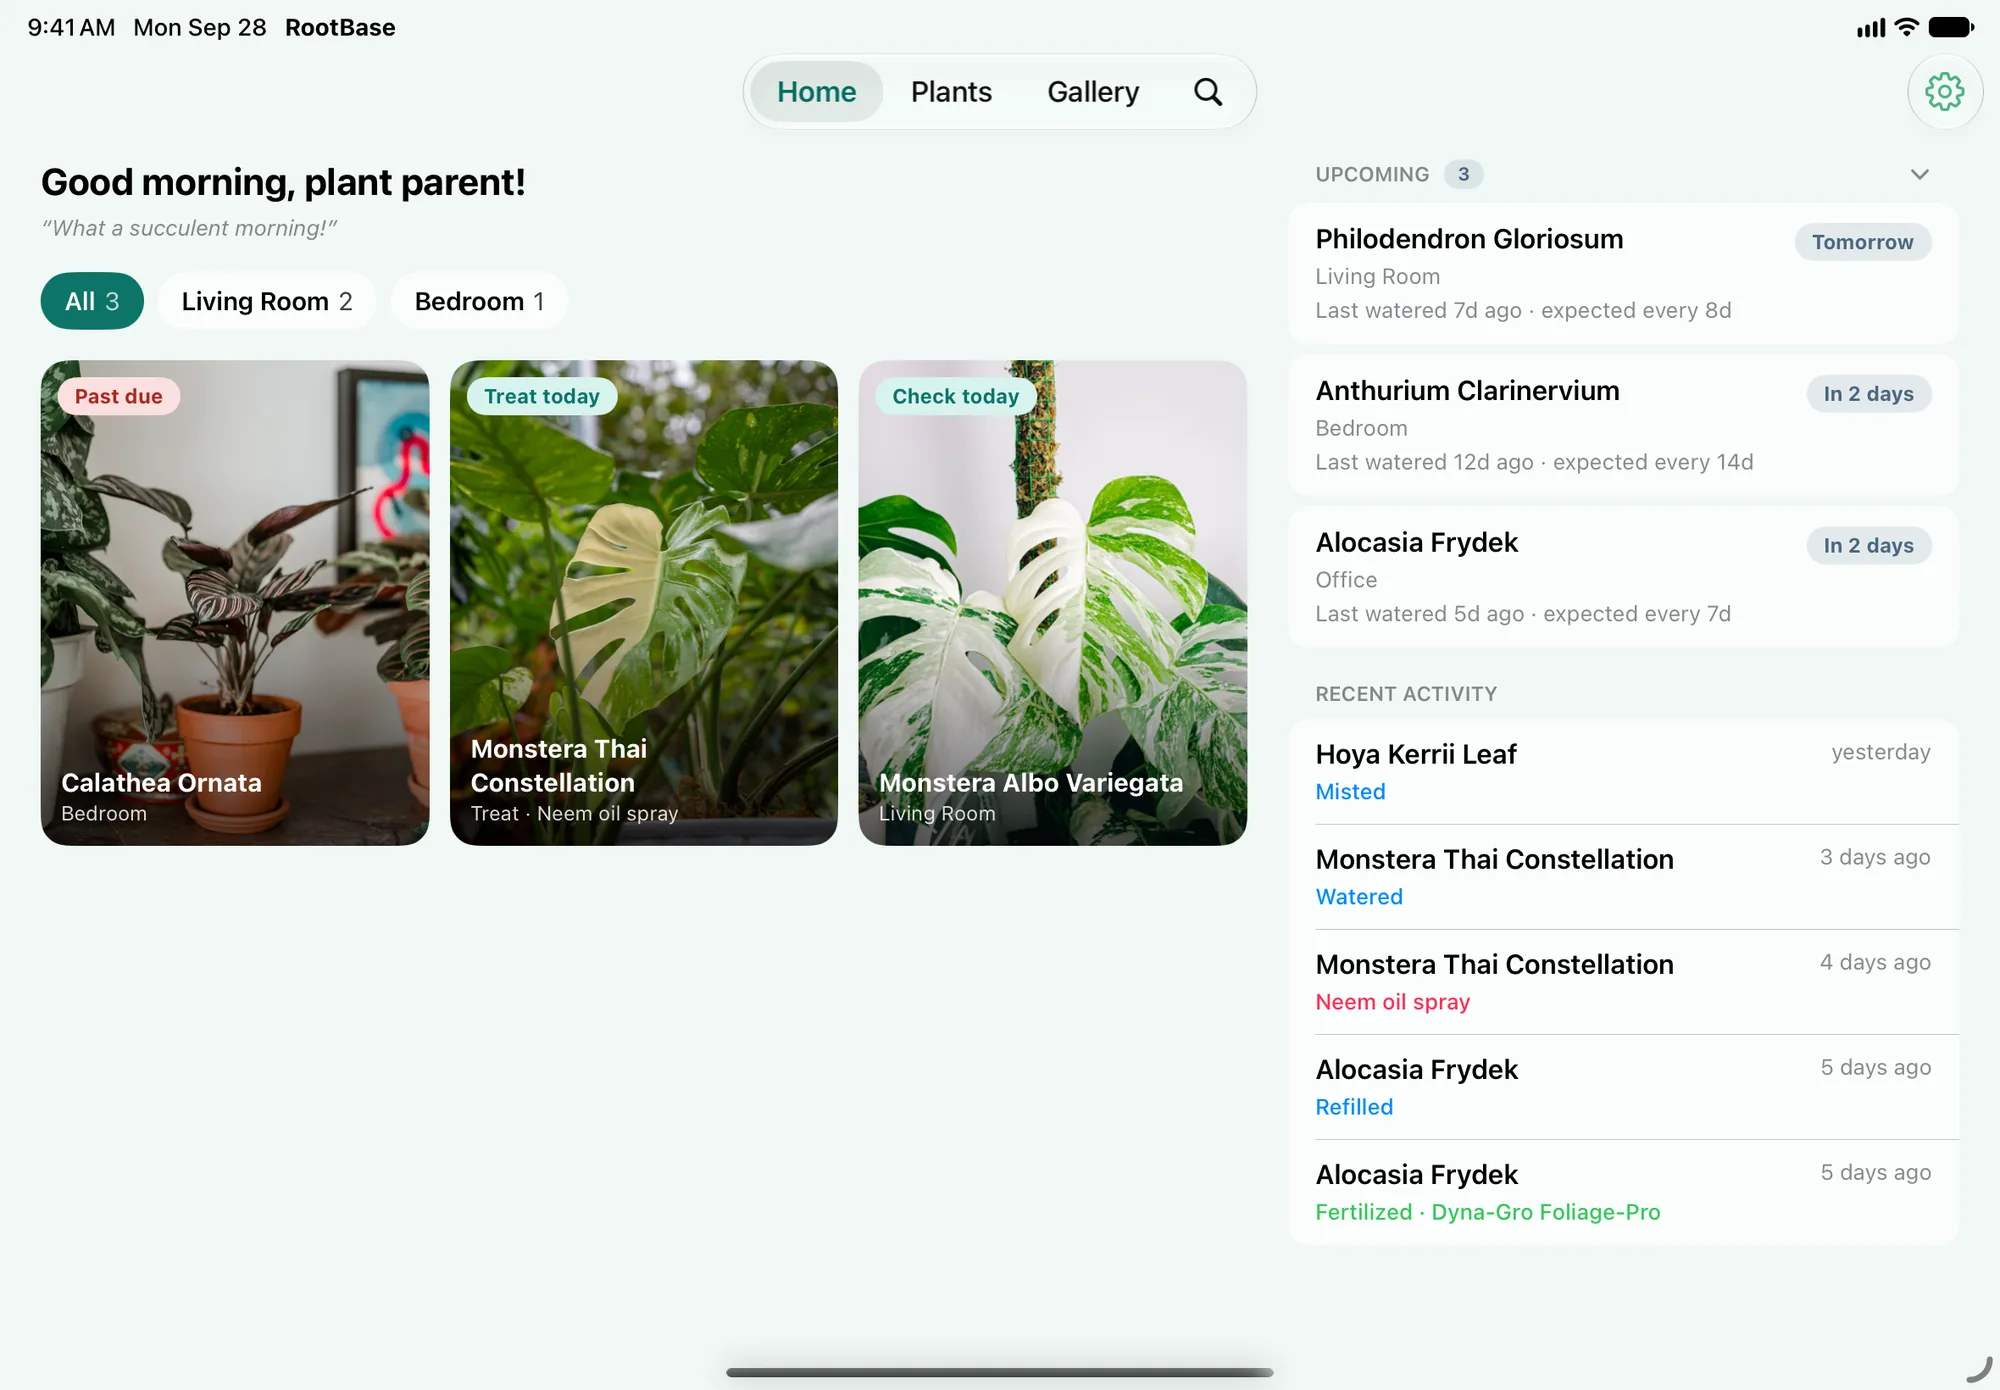
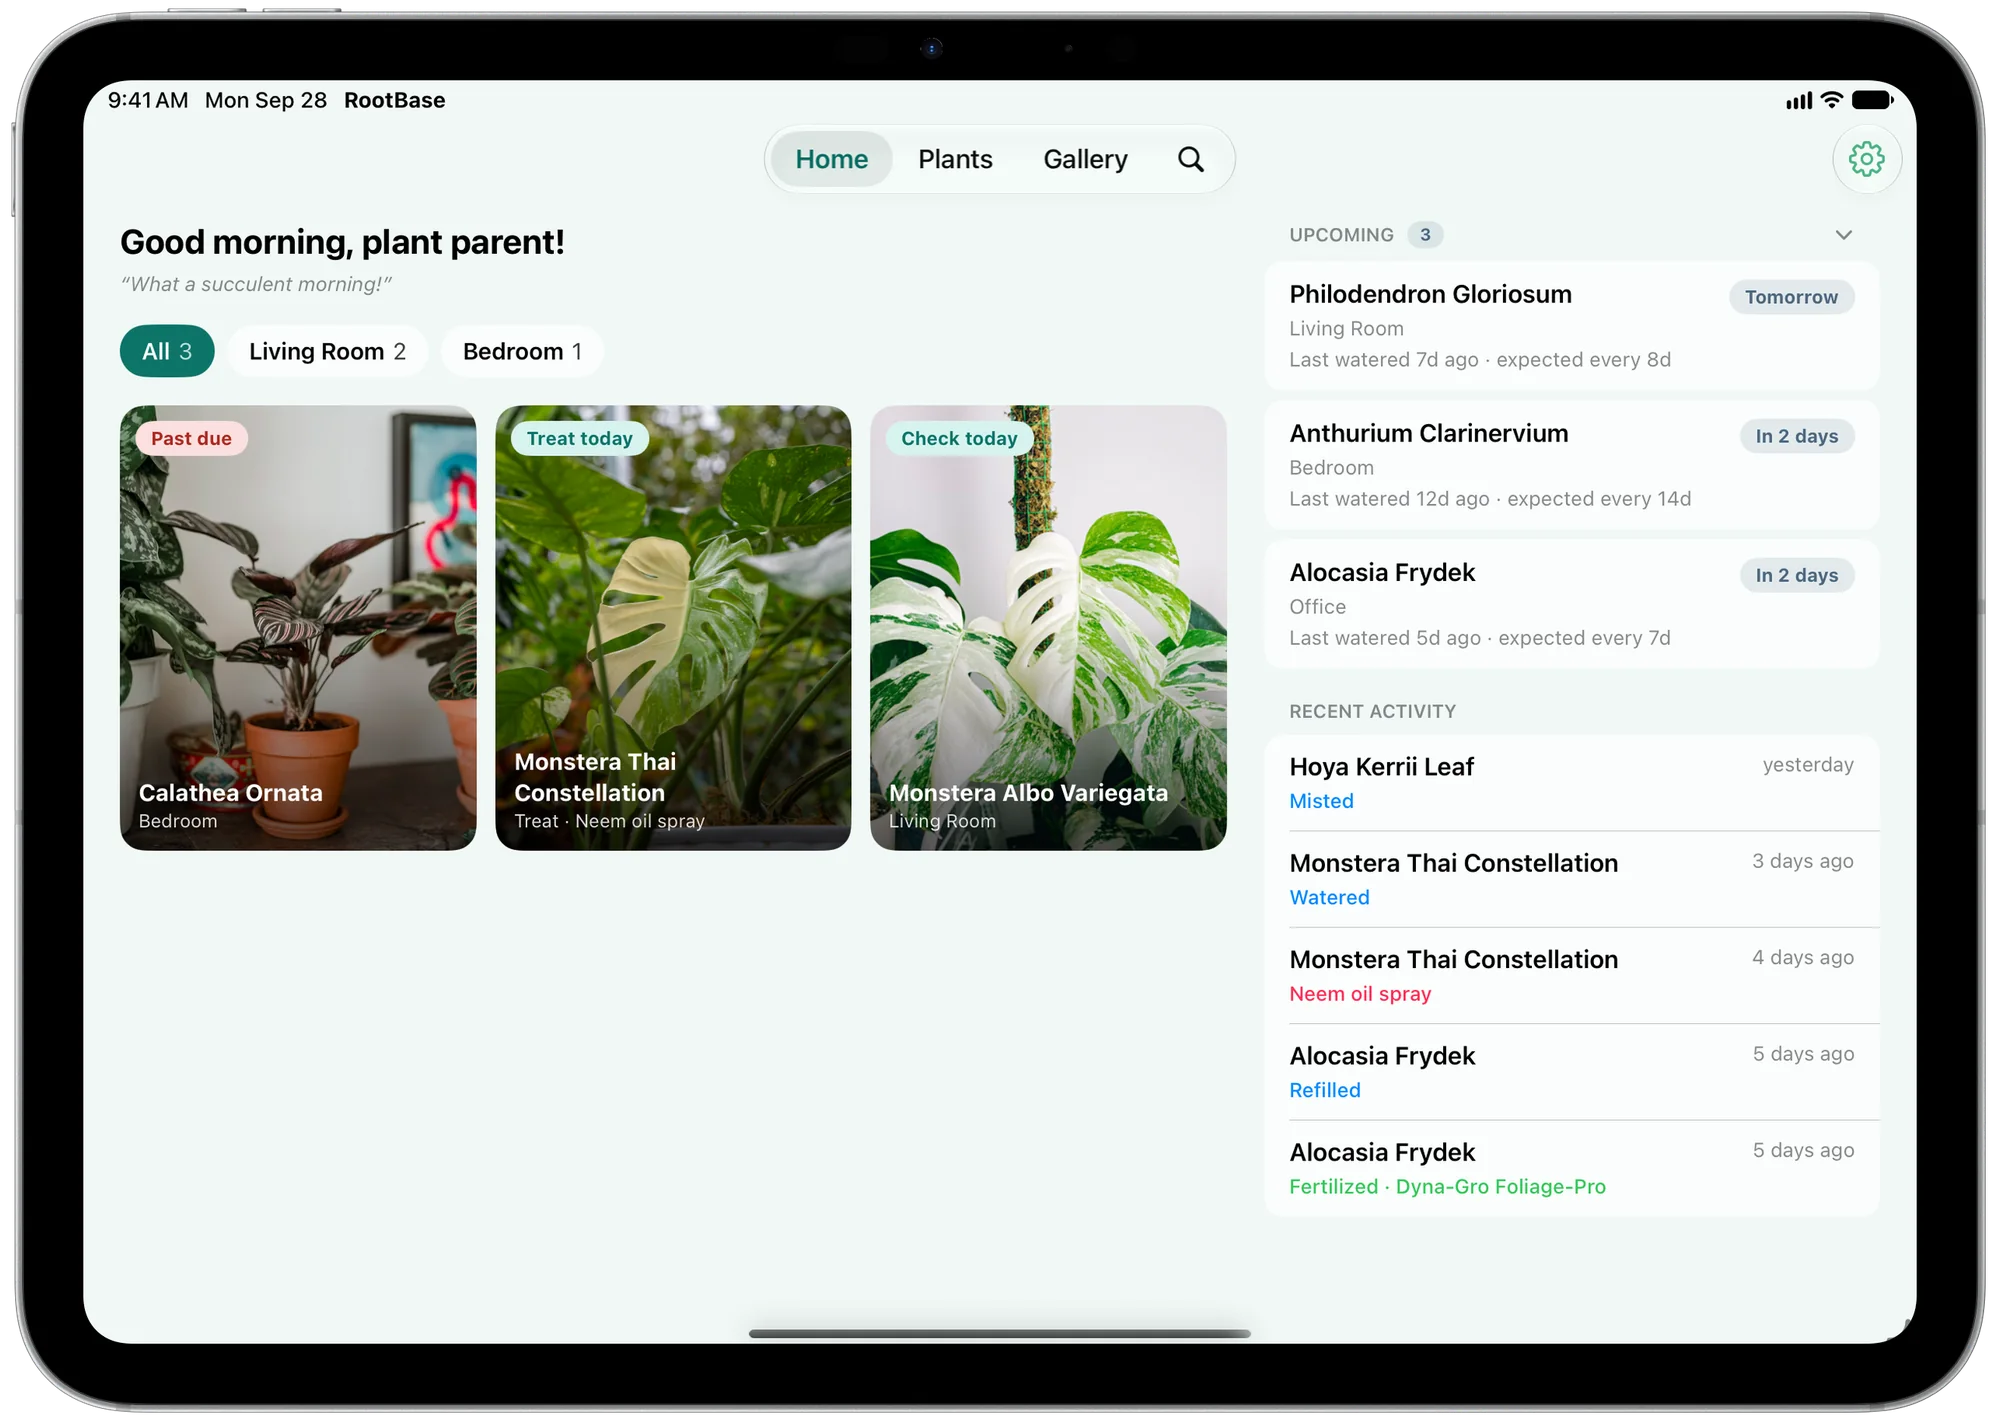
Frame the showcase screenshots in Apple's product bezels
The iPhone shots sit in the iPhone 18 Pro Max (Silver) bezel, whose screen
matches their 1320x2868 exactly. The iPad shot fills the iPad Pro 11" (M5,
Silver) screen, scaled about 2.5% with a few pixels trimmed top and bottom.
The CSS-drawn frames and Dynamic Island go; a drop shadow follows the
device's shape.

Claude-Session: https://claude.ai/code/session_01BzjmBpdYH3boXVMwWMNKFe

diff --git a/index.html b/index.html
@@ -188,7 +188,7 @@
               <h3 class="showcase-title">Know what needs you today.</h3>
               <p class="showcase-body">Past due, today and upcoming, each with the reason it&rsquo;s there. Swipe right to log a watering, or left to push it back a few days.</p>
             </div>
-            <figure class="device device-phone"><img src="assets/images/showcase/iphone-home-360.webp" srcset="assets/images/showcase/iphone-home-360.webp 360w, assets/images/showcase/iphone-home-720.webp 720w" sizes="(max-width: 768px) 240px, 300px" width="360" height="782" alt="RootBase Home screen on iPhone listing a past-due Calathea and two plants due today, with photos below." loading="lazy" decoding="async" /></figure>
+            <figure class="device device-phone"><img src="assets/images/showcase/iphone-home-360.webp" srcset="assets/images/showcase/iphone-home-360.webp 360w, assets/images/showcase/iphone-home-720.webp 720w" sizes="(max-width: 768px) 240px, 300px" width="360" height="735" alt="RootBase Home screen on iPhone listing a past-due Calathea and two plants due today, with photos below." loading="lazy" decoding="async" /></figure>
           </div>
           <div class="showcase-row showcase-row--flip">
             <div class="showcase-copy">
@@ -196,7 +196,7 @@
               <h3 class="showcase-title">Every plant, its own rhythm.</h3>
               <p class="showcase-body">See where a plant sits in its check-in window, log a watering in one tap, and keep fertilizer and repotting right beside it.</p>
             </div>
-            <figure class="device device-phone"><img src="assets/images/showcase/iphone-plant-360.webp" srcset="assets/images/showcase/iphone-plant-360.webp 360w, assets/images/showcase/iphone-plant-720.webp 720w" sizes="(max-width: 768px) 240px, 300px" width="360" height="782" alt="A Monstera Albo Variegata&rsquo;s page on iPhone showing its expected check-in, Water and Not Yet buttons, fertilizer and repot." loading="lazy" decoding="async" /></figure>
+            <figure class="device device-phone"><img src="assets/images/showcase/iphone-plant-360.webp" srcset="assets/images/showcase/iphone-plant-360.webp 360w, assets/images/showcase/iphone-plant-720.webp 720w" sizes="(max-width: 768px) 240px, 300px" width="360" height="735" alt="A Monstera Albo Variegata&rsquo;s page on iPhone showing its expected check-in, Water and Not Yet buttons, fertilizer and repot." loading="lazy" decoding="async" /></figure>
           </div>
           <div class="showcase-row">
             <div class="showcase-copy">
@@ -204,7 +204,7 @@
               <h3 class="showcase-title">Treat problems until they&rsquo;re gone.</h3>
               <p class="showcase-body">Log an issue, schedule a treatment every few days or waterings, and record each application with a tap. The treatment log shows exactly what you did.</p>
             </div>
-            <figure class="device device-phone"><img src="assets/images/showcase/iphone-health-360.webp" srcset="assets/images/showcase/iphone-health-360.webp 360w, assets/images/showcase/iphone-health-720.webp 720w" sizes="(max-width: 768px) 240px, 300px" width="360" height="782" alt="A Thrips issue on iPhone with a neem oil spray treatment every 4 days and its treatment log." loading="lazy" decoding="async" /></figure>
+            <figure class="device device-phone"><img src="assets/images/showcase/iphone-health-360.webp" srcset="assets/images/showcase/iphone-health-360.webp 360w, assets/images/showcase/iphone-health-720.webp 720w" sizes="(max-width: 768px) 240px, 300px" width="360" height="735" alt="A Thrips issue on iPhone with a neem oil spray treatment every 4 days and its treatment log." loading="lazy" decoding="async" /></figure>
           </div>
           <div class="showcase-row showcase-row--flip">
             <div class="showcase-copy">
@@ -212,7 +212,7 @@
               <h3 class="showcase-title">Watch them take root.</h3>
               <p class="showcase-body">Move each propagation through its stages, from fresh leaf to established, and turn it into a plant of its own when it&rsquo;s ready.</p>
             </div>
-            <figure class="device device-phone"><img src="assets/images/showcase/iphone-propagation-360.webp" srcset="assets/images/showcase/iphone-propagation-360.webp 360w, assets/images/showcase/iphone-propagation-720.webp 720w" sizes="(max-width: 768px) 240px, 300px" width="360" height="782" alt="A Hoya Kerrii leaf propagation on iPhone at the Pup Forming stage, with a Mark as Established button." loading="lazy" decoding="async" /></figure>
+            <figure class="device device-phone"><img src="assets/images/showcase/iphone-propagation-360.webp" srcset="assets/images/showcase/iphone-propagation-360.webp 360w, assets/images/showcase/iphone-propagation-720.webp 720w" sizes="(max-width: 768px) 240px, 300px" width="360" height="735" alt="A Hoya Kerrii leaf propagation on iPhone at the Pup Forming stage, with a Mark as Established button." loading="lazy" decoding="async" /></figure>
           </div>
           <div class="showcase-row showcase-row--wide">
             <div class="showcase-copy">
@@ -220,7 +220,7 @@
               <h3 class="showcase-title">Room to grow on iPad.</h3>
               <p class="showcase-body">Everything due today as a photo grid you can filter by room, with what&rsquo;s coming up beside it. Touch and hold a plant to log it.</p>
             </div>
-            <figure class="device device-tablet"><img src="assets/images/showcase/ipad-home-1000.webp" srcset="assets/images/showcase/ipad-home-1000.webp 1000w, assets/images/showcase/ipad-home-2000.webp 2000w" sizes="(max-width: 1120px) calc(100vw - 48px), 1000px" width="1000" height="695" alt="RootBase Home on iPad: a grid of plants due today filtered by room, beside Upcoming and Recent Activity." loading="lazy" decoding="async" /></figure>
+            <figure class="device device-tablet"><img src="assets/images/showcase/ipad-home-1000.webp" srcset="assets/images/showcase/ipad-home-1000.webp 1000w, assets/images/showcase/ipad-home-2000.webp 2000w" sizes="(max-width: 1120px) calc(100vw - 48px), 1000px" width="1000" height="712" alt="RootBase Home on iPad: a grid of plants due today filtered by room, beside Upcoming and Recent Activity." loading="lazy" decoding="async" /></figure>
           </div>
         </div>
       </div>

diff --git a/styles.css b/styles.css
@@ -426,54 +426,28 @@ img, svg { display: block; max-width: 100%; }
   text-align: center;
 }
 
-/* Device frames: percentage padding and radii keep the bezel in proportion at any width. */
+/* Screenshots come composited into Apple's product bezels, transparent around the device. */
 .device {
   margin: 0;
   justify-self: center;
-  background: #141414;
-  box-shadow: 0 0 0 1px var(--divider-line), 0 28px 60px -24px rgba(44, 36, 24, 0.45);
 }
 
 .device img {
   display: block;
   width: 100%;
   height: auto;
+  filter: drop-shadow(0 24px 32px rgba(44, 36, 24, 0.22));
 }
 
-/* A 2.2% bezel around a 1320x2868 screen. The outer radius is the screen's plus the bezel,
-   so the two curves stay concentric. */
 .device-phone {
-  position: relative;
   width: 300px;
   max-width: 100%;
-  padding: 2.2%;
-  border-radius: 14.15% / 6.67%;
-  box-shadow: inset 0 0 0 1.5px #3a3a3a, 0 0 0 1px var(--divider-line), 0 28px 60px -24px rgba(44, 36, 24, 0.45);
-}
-
-.device-phone img { border-radius: 12.5% / 5.75%; }
-
-/* The Dynamic Island the screenshots' status bars leave room for. */
-.device-phone::after {
-  content: "";
-  position: absolute;
-  top: 2.16%;
-  left: 50%;
-  width: 27.3%;
-  aspect-ratio: 126 / 37;
-  transform: translateX(-50%);
-  background: #0b0b0b;
-  border-radius: 999px;
 }
 
 .device-tablet {
   width: 100%;
   max-width: 1000px;
-  padding: 1.8%;
-  border-radius: 4% / 5.7%;
 }
-
-.device-tablet img { border-radius: 2% / 2.9%; }
 
 /* ============ How check-ins work ============ */
 .how {
